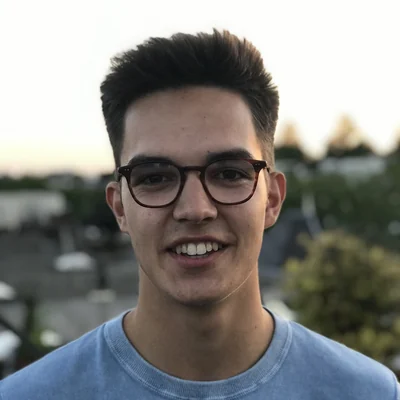
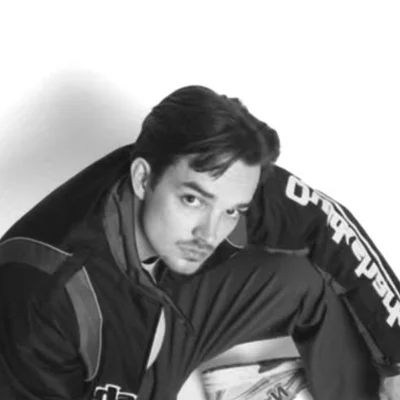
Use Olivier's studio portrait
Cropped down to his face like the other three: at 68 px the full seated pose
would read as a smudge. Note the frame is black and white, so the
desaturate-to-colour beat on hover does nothing on his row — the lift, the
scale and the route line still fire.

diff --git a/tools/crop_portraits.py b/tools/crop_portraits.py
@@ -33,7 +33,11 @@ PEOPLE = {
     "boris":   {"file": "boris.jpeg",  "focus": (0.520, 0.320), "zoom": 0.63},
 
     "thomas":  {"file": "thomas.jpeg", "focus": (0.508, 0.381), "zoom": 1.00},
-    "olivier": {"file": "olivier.jpeg", "focus": (0.514, 0.398), "zoom": 1.00},
+
+    # A full-figure studio frame shot from above. At 68 px the whole pose would
+    # read as a smudge, so the crop comes right down onto his face to keep the
+    # row consistent with the other three.
+    "olivier": {"file": "olivier.jpeg", "focus": (0.473, 0.335), "zoom": 0.50},
 }
 
 
